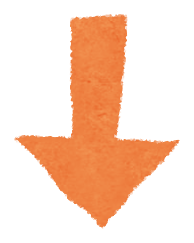
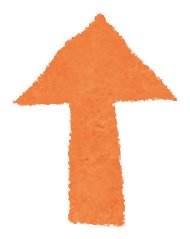
Point the cave arrow up and shrink the Next button.
The arrow has no plate, its tip sits on the cave mouth, and the quiz advance control is a small Next button on the right.

Changed region(s): [[0.0526, 0.0586, 0.9474, 0.9665], [0.5263, 0.5272, 0.5526, 0.5565]]

diff --git a/practice/grammar/boss/index.html b/practice/grammar/boss/index.html
@@ -9,14 +9,14 @@
 <link rel="preconnect" href="https://fonts.gstatic.com" crossorigin/>
 <link href="https://fonts.googleapis.com/css2?family=Fredoka:wght@500;600;700&family=Nunito:wght@400;500;600;700&display=swap" rel="stylesheet"/>
 <link rel="stylesheet" href="../../assets/huninn.css"/>
-<link rel="stylesheet" href="grammar.css?v=57"/>
+<link rel="stylesheet" href="grammar.css?v=58"/>
 <link rel="stylesheet" href="../../assets/chrome.css?v=7" />
 <link rel="stylesheet" href="../../assets/profile.css?v=6" />
 <link rel="stylesheet" href="../../assets/account.css?v=8" />
 <script src="../../assets/supabase-public.js?v=1"></script>
 <script src="../../assets/progress-sync.js?v=3"></script>
 <script src="../../assets/place.js?v=11"></script>
-<script src="../../assets/place-ui.js?v=32"></script>
+<script src="../../assets/place-ui.js?v=33"></script>
 <script src="../../assets/profile.js?v=7"></script>
 <script src="../../assets/account.js?v=17"></script>
 </head>
@@ -54,7 +54,7 @@
     <div class="choices" id="choices"></div>
     <div class="battle-foot" id="battle-foot" hidden>
       <p class="battle-tip" id="reason" hidden></p>
-      <button type="button" class="battle-next" id="btn-next">Next question</button>
+      <button type="button" class="battle-next" id="btn-next">Next</button>
     </div>
     <div class="my-hp">
       <span class="my-hp-label">MY HP</span>
@@ -932,7 +932,6 @@
       reason.textContent = it.explain || "";
       reason.hidden = !it.explain;
       foot.hidden = false;
-      btnNext.textContent = last ? "Continue" : "Next question";
       return;
     }
     pose("is-lunge");

diff --git a/assets/site.css b/assets/site.css
@@ -1641,26 +1641,30 @@ body.boss-quiz-open .account-link-fab {
   z-index: 6;
   left: 48.7%;
   top: 64.2%;
-  width: 4.6rem;
+  width: 7.4rem;
   height: auto;
   display: block;
   padding: 0;
   border: 0;
   border-radius: 0;
-  background: none;
+  -webkit-appearance: none;
+  appearance: none;
+  background: transparent;
+  box-shadow: none;
   cursor: pointer;
   pointer-events: auto;
-  transform: translate(-50%, -100%);
+  transform: translate(-50%, 0);
   animation: boss-arrow 0.7s ease-in-out infinite alternate;
 }
 .boss-gate-arrow img {
   width: 100%;
   height: auto;
   display: block;
+  background: transparent;
 }
 @keyframes boss-arrow {
-  from { transform: translate(-50%, calc(-100% - 16px)); }
-  to { transform: translate(-50%, -100%); }
+  from { transform: translate(-50%, 18px); }
+  to { transform: translate(-50%, 0); }
 }
 .boss-gate.is-entering .boss-gate-arrow,
 .boss-gate.is-entering .boss-gate-mouth,

diff --git a/index.html b/index.html
@@ -10,7 +10,7 @@
   <link href="https://fonts.googleapis.com/css2?family=Fredoka:wght@500;600;700&family=Nunito:wght@400;500;600;700&display=swap" rel="stylesheet" />
 <link rel="stylesheet" href="assets/huninn.css"/>
   <link rel="icon" href="assets/favicon.png?v=2" />
-  <link rel="stylesheet" href="assets/site.css?v=69" />
+  <link rel="stylesheet" href="assets/site.css?v=70" />
   <script>
   (function () {
     var mode = 'guide';
@@ -355,7 +355,7 @@
   <script src="assets/img-frame.js?v=13"></script>
   <script src="assets/site-pages.js?v=8"></script>
   <script src="assets/resources.js?v=2"></script>
-  <script src="assets/place-ui.js?v=32"></script>
+  <script src="assets/place-ui.js?v=33"></script>
   <script src="practice/data/unit1.js"></script>
   <script src="practice/data/unit2.js"></script>
   <script src="practice/data/unit3.js"></script>

diff --git a/assets/place-ui.js b/assets/place-ui.js
@@ -243,7 +243,7 @@
       + '<img class="boss-gate-cave" alt="" src="' + root + 'assets/boss/cave.png?v=3">'
       + '<button type="button" class="boss-gate-mouth" data-ready aria-label="Enter the cave"></button>'
       + '<button type="button" class="boss-gate-arrow" data-ready aria-label="Enter the cave">'
-      + '<img alt="" src="' + root + 'assets/boss/arrow.png?v=1">'
+      + '<img alt="" src="' + root + 'assets/boss/arrow.png?v=2">'
       + '</button></div></div>'
       + '<div class="boss-gate-card">'
       + '<h2 id="boss-gate-title">Ready for the boss?</h2>'

diff --git a/practice/grammar/badges/index.html b/practice/grammar/badges/index.html
@@ -10,7 +10,7 @@
   <link href="https://fonts.googleapis.com/css2?family=Fredoka:wght@500;600;700&family=Nunito:wght@400;500;600;700&display=swap" rel="stylesheet" />
 <link rel="stylesheet" href="../../assets/huninn.css"/>
   <link rel="icon" href="../../assets/favicon.png?v=2" />
-  <link rel="stylesheet" href="assets/site.css?v=69" />
+  <link rel="stylesheet" href="assets/site.css?v=70" />
 <link rel="stylesheet" href="../../assets/account.css?v=8" />
 <script src="../../assets/supabase-public.js?v=1"></script>
 <script src="../../assets/progress-sync.js?v=3"></script>

diff --git a/account/index.html b/account/index.html
@@ -10,7 +10,7 @@
   <link href="https://fonts.googleapis.com/css2?family=Fredoka:wght@500;600;700&family=Nunito:wght@400;500;600;700&display=swap" rel="stylesheet" />
 <link rel="stylesheet" href="assets/huninn.css"/>
   <link rel="icon" href="assets/favicon.png?v=2" />
-  <link rel="stylesheet" href="assets/site.css?v=69" />
+  <link rel="stylesheet" href="assets/site.css?v=70" />
   <link rel="stylesheet" href="assets/profile.css?v=6" />
   <link rel="stylesheet" href="assets/account.css?v=8" />
   <script src="assets/supabase-public.js?v=1"></script>

diff --git a/badges/index.html b/badges/index.html
@@ -10,7 +10,7 @@
   <link href="https://fonts.googleapis.com/css2?family=Fredoka:wght@500;600;700&family=Nunito:wght@400;500;600;700&display=swap" rel="stylesheet" />
 <link rel="stylesheet" href="assets/huninn.css"/>
   <link rel="icon" href="assets/favicon.png?v=2" />
-  <link rel="stylesheet" href="assets/site.css?v=69" />
+  <link rel="stylesheet" href="assets/site.css?v=70" />
   <link rel="stylesheet" href="assets/profile.css?v=6" />
 <link rel="stylesheet" href="assets/account.css?v=8" />
 <script src="assets/supabase-public.js?v=1"></script>

diff --git a/profile/index.html b/profile/index.html
@@ -10,7 +10,7 @@
   <link href="https://fonts.googleapis.com/css2?family=Fredoka:wght@500;600;700&family=Nunito:wght@400;500;600;700&display=swap" rel="stylesheet" />
 <link rel="stylesheet" href="assets/huninn.css"/>
   <link rel="icon" href="assets/favicon.png?v=2" />
-  <link rel="stylesheet" href="assets/site.css?v=69" />
+  <link rel="stylesheet" href="assets/site.css?v=70" />
   <link rel="stylesheet" href="assets/profile.css?v=6" />
   <link rel="stylesheet" href="assets/account.css?v=8" />
   <script>

diff --git a/payment-return/index.html b/payment-return/index.html
@@ -6,7 +6,7 @@
   <meta charset="UTF-8" />
   <meta name="viewport" content="width=device-width, initial-scale=1" />
   <title>Test payment · Play and Learn Club</title>
-  <link rel="stylesheet" href="assets/site.css?v=69" />
+  <link rel="stylesheet" href="assets/site.css?v=70" />
   <script src="assets/supabase-public.js?v=1"></script>
   <script src="assets/progress-sync.js?v=3"></script>
   <script src="assets/account.js?v=17"></script>

diff --git a/practice/grammar/grammar.css b/practice/grammar/grammar.css
@@ -1431,13 +1431,16 @@ body.boss-round .prompt .blank {
   line-height: 1.35;
 }
 .battle-next {
-  min-height: 2.9rem;
+  align-self: flex-end;
+  width: auto;
+  min-height: 0;
+  padding: 0.32rem 0.85rem;
   border-radius: var(--pill);
   background: var(--navy);
   color: #fff;
   font-family: var(--font-display);
   font-weight: 700;
-  font-size: 1.15rem;
+  font-size: 0.95rem;
 }
 body.boss-round .choices {
   flex: none;

diff --git a/practice/grammar/grammar-hub/index.html b/practice/grammar/grammar-hub/index.html
@@ -16,7 +16,7 @@
 <script src="../../assets/supabase-public.js?v=1"></script>
 <script src="../../assets/progress-sync.js?v=3"></script>
 <script src="../../assets/place.js?v=11"></script>
-<script src="../../assets/place-ui.js?v=32"></script>
+<script src="../../assets/place-ui.js?v=33"></script>
 <script src="../../assets/profile.js?v=7"></script>
 <script src="../../assets/account.js?v=17"></script>
 </head>

diff --git a/practice/grammar/practice-entry/index.html b/practice/grammar/practice-entry/index.html
@@ -16,7 +16,7 @@
 <script src="../../assets/supabase-public.js?v=1"></script>
 <script src="../../assets/progress-sync.js?v=3"></script>
 <script src="../../assets/place.js?v=11"></script>
-<script src="../../assets/place-ui.js?v=32"></script>
+<script src="../../assets/place-ui.js?v=33"></script>
 <script src="../../assets/profile.js?v=7"></script>
 <script src="../../assets/account.js?v=17"></script>
 </head>
